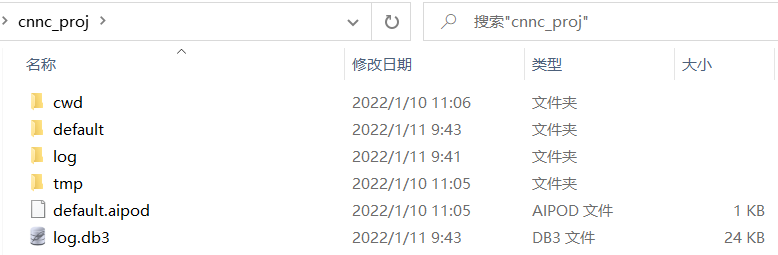
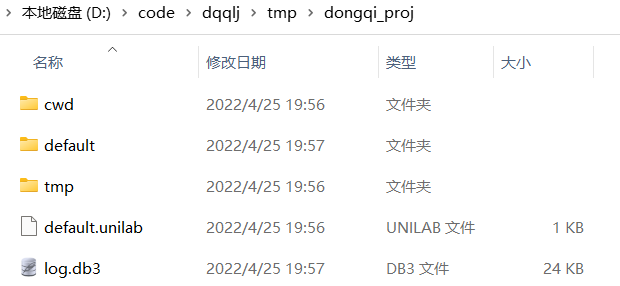
增加循环节点并修改部分旧的字段

diff --git a/docs/二次开发教程.md b/docs/二次开发教程.md
@@ -4,18 +4,19 @@
 
 ## 领域术语释义
 
-| 序号 | 专有名词 |中文释义|  领域释义 | 备注 |
-| ------------ | ------------- | ------------ | ------------ | ------------ |
-| 1 |solution|工程|层级最高的文件结构|2.1版本仅允许创建一个工程 |
-| 2 |process|流程|计算的线性过程|一个工程可创建多个流程|
-| 3 |model|模型|可执行的计算单元组|model有执行引擎的概念|
-| 4 |node|节点|特定功能的计算单元|特定功能的计算单元 |
-| 5 |simulation task|评估任务|自动化的计算流程|AIPOD任务类型之一|
-| 6 |var|变量|计算结果储存的抽象概念|
-| 7 |CWD|当前工作目录|aipod任务执行的路径|
-| 8 |Line|连线|节点之间数据传递管理|
-| 9 |unicall|任务调用管理|任务定义执行器构造|UniLab的后端|
-| 10 |gfunc|全局函数|任务数据引擎的缓存和构造|unicall的后端|
+| 序号  | 专有名词 | 中文释义 |  领域释义 | 备注             |
+|-----| ------------- |--| ------------ |----------------|
+| 1   |solution| 工程 |层级最高的文件结构| 2.1版本仅允许创建一个工程 |
+| 2   |process| 流程 |计算的线性过程| 一个工程可创建多个流程    |
+| 3   |model| 模型 |可执行的计算单元组| model有执行引擎的概念  |
+| 4   |node| 节点 |特定功能的计算单元| 特定功能的计算单元      |
+| 5   |simulation task| 评估任务 |自动化的计算流程| unicall任务类型之一  |
+| 6   |var| 变量 |计算结果储存的抽象概念|
+| 7   |CWD| 当前工作目录 |unicall任务执行的路径|
+| 8   |Line| 连线 |节点之间数据传递管理|
+| 9   |unicall| 任务调用管理 |任务定义执行器构造| UniLab的后端      |
+| 10  |gfunc| 全局函数 |任务数据引擎的缓存和构造| unicall的后端     |
+| 11  |UniLab| 仓库平台总称 |集成unicall和gfunc| |
 
 ## 开发流程图
 ![二次开发流程图.png](img/二次开发流程图.png)
@@ -30,7 +31,7 @@
             ...
         tmp/
             ...
-        default.aipod    # 项目配置文件
+        default.unilab    # 项目配置文件
         log.db3          # 日志数据库
 
 ## 工程文件截图
@@ -39,17 +40,17 @@
 ## 内部接口函数明细
 
 ### 工程侧常用方法
-| 序号| 对象名 | 作用 | 所属模块 |
-| ------------ | ------------- | ------------ |------------ |
-| 1 | Solution  | 流程操作对象 |aipod |
-| 2 | create_default_solution | 创建aipod工程函数 |aipod |
-| 3 | open_aipod_project  | 打开aipod工程函数 |aipod |
+| 序号| 对象名                     | 作用           | 所属模块    |
+| ------------ |-------------------------|--------------|---------|
+| 1 | Solution                | 流程操作对象       | unicall |
+| 2 | create_default_solution | 创建unilab工程函数 | unicall   |
+| 3 | open_uniab_project      | 打开unilab工程函数  | unicall   |
 
 
     """创建工程的示例代码(仅包含工程创建和函数节点，此时尚不可打包为流程文件夹)"""
 
-    # 1. 导入aipod内置的方法
-    from aipod import Solution, create_default_solution, open_aipod_project
+    # 1. 从Unilab导入solution相关的内置方法
+    from unilab.persistence import Solution, create_default_solution
 
     # 2. 创建并获取工程对象solution
     solution = create_default_solution(path, title="", port=60007).default
@@ -70,38 +71,38 @@
     func_node.add_dynamic_file(name="data.zip", rel_path='data.zip')
 
 ### 流程侧常用方法
-| 序号| 对象名 | 作用 | 上层对象 | 备注 |
-| ------------ | ------------- | ------------ |------------ |------------ |
-| 1 | add_graph_model | 流程操作对象 |aipod |-------- |
-| 2 | add_func_node | 创建aipod工程函数 |aipod |-------- |
-| 3 | add_exe_node | 打开aipod工程函数 |aipod |-------- |
-| 4 | add_process_group | 获取流程组信息 |get_calcmodel_cli |-------- |
-| 5 | add_subprocess | 获取子流程 |add_process_group |-------- |
-| 6 | add_dynamic_file | 添加动态文件 |add_graph_model |-------- |
-| 7 | add_input_variable | 添加输入变量 |model/node| 全局/节点均支持 |
-| 8 | add_output_variable | 添加输出变量 |model/node| 全局/节点均支持 |
-| 9 | add_loop_node | 添加循环节点 |model |-------- |
-| 10 | add_local_input_variable | 添加节点输入变量 |model |-------- |
-| 11 | add_condition_node | 添加判定节点 |model |-------- |
-| 12 | add_autoinc_node | 循环自增节点 |model |-------- |
-| 13 | add_or_node | 增加并行判断节点 |model |-------- |
-| 14 | upload | 附件的上传函数 |add_attachment |-------- |
-| 15 | add_attachment | exe节点增加附件 |add_exe_node |-------- |
-| 16 | update_post_out_trigger | exe节点触发器 |add_exe_node |-------- |
-| 17 | add_in_line | 流程输入连线 |model |add_subprocess/add_graph_model等均可 |
-| 18 | add_line | 流程普通连线 |model |add_subprocess/add_graph_model |
-| 19 | add_out_line | 流程输出连线 |model |add_subprocess/add_graph_model |
+| 序号| 对象名 | 作用 | 上层对象              | 备注 |
+| ------------ |:--------------| ------------ |-------------------|------------ |
+| 1 | add_graph_model | 流程操作对象 | unicall|-------- |
+| 2 | add_func_node | 创建aipod工程函数 | aipod             |-------- |
+| 3 | add_exe_node | 打开aipod工程函数 | aipod             |-------- |
+| 4 | add_process_group | 获取流程组信息 | get_calcmodel_cli |-------- |
+| 5 | add_subprocess | 获取子流程 | add_process_group |-------- |
+| 6 | add_dynamic_file | 添加动态文件 | add_graph_model   |-------- |
+| 7 | add_input_variable | 添加输入变量 | model/node        | 全局/节点均支持 |
+| 8 | add_output_variable | 添加输出变量 | model/node        | 全局/节点均支持 |
+| 9 | add_loop_node | 添加循环节点 | model             |-------- |
+| 10 | add_local_input_variable | 添加节点输入变量 | model             |-------- |
+| 11 | add_condition_node | 添加判定节点 | model             |-------- |
+| 12 | add_autoinc_node | 循环自增节点 | model             |-------- |
+| 13 | add_or_node | 增加并行判断节点 | model             |-------- |
+| 14 | upload | 附件的上传函数 | add_attachment    |-------- |
+| 15 | add_attachment | exe节点增加附件 | add_exe_node      |-------- |
+| 16 | update_post_out_trigger | exe节点触发器 | add_exe_node      |-------- |
+| 17 | add_in_line | 流程输入连线 | model             |add_subprocess/add_graph_model等均可 |
+| 18 | add_line | 流程普通连线 | model             |add_subprocess/add_graph_model |
+| 19 | add_out_line | 流程输出连线 | model             |add_subprocess/add_graph_model |
 
 ## 流程应用示例
 ### 示例一: exe+函数节点流程
 #### 流程搭建的完整代码
     import os
     from unicall import DataType
-    from aipod import create_default_solution, Solution
+    from unilab.persistence import Solution, create_default_solution
     
     
     # 示例代码1
-    def add_demo1_model(cli):  # cli是aipod的接口管理对象 包含了任务管理的上下文信息
+    def add_demo1_model(cli):  # cli是unicall的接口管理对象 包含了任务管理的上下文信息
         proc = cli.add_process_group(name="demo1", template_name="default")
         model = proc.add_subprocess(type_id=3, name="demo1").model
     
@@ -140,11 +141,8 @@
 
 #### 流程测试(使用脚本)
     import unicall
-    unicall.debug_on()  # before import aipod
-    import aipod
-    aipod.debug_on()
-    from aipod import Solution
-    from aipod.scheduler import Scheduler
+    from unilab.persistence import Solution
+    from unilab.scheduler import Scheduler
     
     
     def get_path(path):
@@ -175,11 +173,9 @@
     
     
     if __name__ == '__main__':
-        import os
-        print(os.getpid())
         import sys
         import logging
-        from aipod import logger_helper
+        from unilab.utils.log_helper import logger_helper  # 日志记录器
         logger_helper.add_stream_handler("default", stream=sys.stderr, level=logging.DEBUG)
         logger_helper.logger.info("start test")
         path = get_path("../tmp/demo")
@@ -209,7 +205,7 @@
         inputs:{'input1': 1}
         result:{'output1': 2}
 
-#### 流程用AIPOD打开后的流程图
+#### 流程用搭载前端的AIPOD优化软件打开后的流程图
 ![img.png](img/示例一AIPOD打开后的流程图.png)
 
 ### 示例二: exe节点+函数节点流程
@@ -227,7 +223,7 @@
     sys.path.append(get_path("../../"))
     
     import shutil
-    from aipod import Solution, create_default_solution, open_aipod_project
+    from unilab.persistence import Solution, create_default_solution, open_aipod_project
     
     
     def add_demo2_model(cli):
@@ -293,7 +289,7 @@
         graph.add_out_line("exe")
     
     
-    def create_aipod_sln(path, is_clear=True):
+    def create_unilab_sln(path, is_clear=True):
         if is_clear and os.path.exists(path):
             shutil.rmtree(path)
         sln = create_default_solution(path,
@@ -305,10 +301,10 @@
         create_cu_ansys(cli)
     
     def update_worker_num(path):
-        proj_cli = open_aipod_project(os.path.join(path, "default")).get_db_cli()
+        proj_cli = open_unilab_project(os.path.join(path, "default")).get_db_cli()
         proj_cli.update_surrogate("cnnc_calc_ansys",
                                   exec_type_id=1,
-                                  worker_num=10,
+                                  worker_num=10,  # 工作线程更新为10
                                   task_timeout=36000,
                                   password=None)
         proj_cli.update_surrogate("cnnc_calc_pipestress",
@@ -324,16 +320,12 @@
     
     if __name__ == '__main__':
         import logging
-        from aipod import logger_helper
-        logger_helper.add_stream_handler("default", level=logging.DEBUG)
-        from optpy.persistence import logger_helper
-        logger_helper.add_stream_handler(level=logging.DEBUG)
-        from aipod import logger_helper
-        logger_helper.add_stream_handler("default", level=logging.DEBUG)
+        from unilab.utils.log_helper import logger_helper
+        logger_helper.add_stream_handler(name="default", level=logging.DEBUG)
     
         path = get_path("../tmp_proj_dir/cnnc_proj")
-        create_aipod_sln(path)
-        update_worker_num(path)
+        create_unilab_sln(path)
+        # update_worker_num(path)  增加并发用
         test_open(path)
 
 
@@ -505,5 +497,147 @@
 ![img.png](img/示例二AIPOD打开后的流程图.png)
 
 ### 示例三: 函数节点+循环节点+判断节点流程
+#### 流程搭建的完整代码
+    import os
+    import sys
+
+    def add_reaction_design_iterative_model(cli):
+        graph = cli.add_graph_model(name="reaction_design_iterative", description="一维反动式设计迭代的完整流程")
+            # 自加节点
+        node = graph.add_autoinc_node(name="loop1_autoinc",
+                                  inc_variable="loop1_range_times",
+                                  inc_step=1)
+        # loop1循环判断节点
+        node = graph.add_loop_condition_node(name="loop1_range_judge_node", condition="(loop1_range_times == {})".format(global_iterative_limit_var))
+        node.add_input_variable(name="loop1_range_times",
+                            datatype_id=DataType.Int,
+                            is_from_global=True)
+
+        node = graph.add_func_node(name="loop1_over_upper_limit_func_node", function="""
+        all_extraction_port_judge_result = 0
+        print("循环1(判断首级根茎范围并调整载荷系数) 超过迭代上限次数")
+        raise Exception("循环1(判断首级根茎范围并调整载荷系数) 超过迭代上限次数")
+        """)
+        node.add_output_variable(name="all_extraction_port_judge_result", datatype_id=DataType.Int, is_to_global=True)
+        
+        # 1.1 输入文件生成
+        node = graph.add_func_node(name="reaction_design_generate_inputfile", description="生成输入文件", is_private_cwd=False,
+                                   function="""
+        import io
+        from dq import unit
+        
+        Reaction_design_input_parameter = unit.json_parse(Reaction_design_input_parameter)
+        
+        path = {{__cwd__}} + "/input.txt"
+        test = unit.RecDesignGetInFile(path, Reaction_design_input_parameter)
+        test.run()
+        input_file_content = test.file_content.getvalue()
+        # print(input_file_content)
+        import time
+        time_start = time.time()
+        """, layout={"x": 300, "y": 300})
+            node.add_input_variable(name="Reaction_design_input_parameter", datatype_id=DataType.String, value="", is_from_global=True)
+            node.add_output_file(name='input.txt',
+                                 description="反动式设计程序输入文件",
+                                 rel_path="input.txt",
+                                 format_type=FileFormatType.Text)
+            node.add_output_variable(name="input_file_content", datatype_id=DataType.String, is_to_global=True)
+            node.add_output_variable(name="time_start", datatype_id=DataType.Float, is_to_global=True)
+        
+            # 1.2 反动式一维设计程序执行
+            node = graph.add_exe_node(name="reaction_design", is_private_cwd=False, description="反动式一维设计程序",
+                                      timeout=-1, is_local=False, shell=False,
+                                      check_returncode=True, env=None,
+                                      type_name=None,
+                                      command="{{__cwd__}}/reaction_design_program.exe") # 真实程序：reaction_design_program.exe 模拟程序：ReactionaryDesign.exe
+        
+            # 1.3 反动式一维设计输出文件解析
+            node = graph.add_func_node(name="reaction_design_outputfile_analysis", description="输出文件解析", is_private_cwd=False,
+                                       function='''
+        import re
+        import json
+        import time
+        from dq import unit
+        time_end = time.time()
+        print('反动式程序1执行耗时:',time_end-time_start)
+        
+        file_path = {{__cwd__}} + '/output.txt'
+        out = unit.GetOutParaFromReacDesign_OUT(file_path)
+        out.run()
+        with open(file_path, "r", encoding="ansi") as tmp:
+            OUT =  tmp.read()
+        
+        file_path = {{__cwd__}} + '/LOSS.txt'
+        loss = unit.GetOutParaFromReacDesign_LOSS(file_path)
+        loss.run()
+        with open(file_path, "r", encoding="ansi") as tmp:
+            LOSS =  tmp.read()
+        out.output.update(loss.output)
+        parameters = json.dumps(out.output)
+        load_factor = ''
+        ''', layout={"x": 350, "y": 300})
+            node.add_input_variable(name="time_start", datatype_id=DataType.Float, is_from_global=True)
+            node.add_output_variable(name="parameters", datatype_id=DataType.String, is_to_global=True)
+            node.add_output_variable(name="OUT", datatype_id=DataType.String, is_to_global=True)
+            node.add_output_variable(name="LOSS", datatype_id=DataType.String, is_to_global=True)
+            node.add_output_variable(name="load_factor", datatype_id=DataType.String, is_to_global=True)
+        
+            # 2. 获取OUT变量的首级根茎
+            node = graph.add_func_node(name="the_head_rhizome_is_obtained", description="获取首级根茎节点", is_private_cwd=False,
+                                       function="""
+        from dq import unit
+        
+        # 获取并判断首级根茎节点
+        out=OUT
+        KEY5=Target_of_D_ROTORB
+        KEY6=ROTORB_error_range
+            
+        judge_in_range, D_ROTORB_VALUE, TARGET_D_ROTORB = unit.ReactionDesignIterative({{__cwd__}}).read_output_file_func(out, KEY5, KEY6)
+        """, layout={"x": 400, "y": 300})
+            node.add_input_variable(name="OUT", datatype_id=DataType.String, is_from_global=True)
+            node.add_input_variable(name="Target_of_D_ROTORB", datatype_id=DataType.String, is_from_global=True)
+            node.add_input_variable(name="ROTORB_error_range", datatype_id=DataType.String, is_from_global=True)
+            node.add_output_variable(name="judge_in_range", description="首级根茎是否在范围内", datatype_id=DataType.Int, is_to_global=True)
+            node.add_output_variable(name="D_ROTORB_VALUE", datatype_id=DataType.Int, is_to_global=True)
+            node.add_output_variable(name="TARGET_D_ROTORB", datatype_id=DataType.Int, is_to_global=True)
+        
+            # 2.1 首级根茎范围判断节点
+            node = graph.add_loop_condition_node(name="head_rhizome_range_judgment_node", description='首级根茎范围判断节点', condition="(judge_in_range == 1)", layout={"x": 450, "y": 300})
+            node.add_input_variable(name="judge_in_range", datatype_id=DataType.Int, is_from_global=True)
+        
+            # 2.2 首级根茎不在范围内调整级段所有的载荷系数
+            node = graph.add_func_node(name="adjust_the_load_factor_node", description="调整载荷系数函数节点", is_private_cwd=False,
+                                       function="""
+        from dq import unit
+        import json
+        
+        
+        D_ROTORB_VALUE = D_ROTORB_VALUE
+        TARGET_D_ROTORB = TARGET_D_ROTORB
+        Location_of_extraction_port = Location_of_extraction_port
+        Reaction_design_input_parameter = unit.json_parse(Reaction_design_input_parameter)
+        Limit_Levels = Limit_Levels
+        output_txt_file = {{__cwd__}} + '/output.txt'
+        x1 = x1
+        
+        rename_Reaction_design_input_parameter = unit.ReactionDesignIterative({{__cwd__}}).load_coefficient_adjustment_func(D_ROTORB_VALUE, TARGET_D_ROTORB, Location_of_extraction_port, Reaction_design_input_parameter, Limit_Levels, output_txt_file, x1)
+        load_factor = rename_Reaction_design_input_parameter["a5"]
+        """, layout={"x": 500, "y": 300})
+            node.add_input_variable(name="D_ROTORB_VALUE", datatype_id=DataType.Int, is_from_global=True)  # float
+            node.add_input_variable(name="TARGET_D_ROTORB", datatype_id=DataType.Int, is_from_global=True)
+            node.add_input_variable(name="Location_of_extraction_port", datatype_id=DataType.String, is_from_global=True)
+            node.add_input_variable(name="Limit_Levels", datatype_id=DataType.String, is_from_global=True)
+            node.add_input_variable(name="Reaction_design_input_parameter", datatype_id=DataType.String, is_from_global=True)
+            node.add_input_variable(name="x1", description="1/3修改载荷配置项", datatype_id=DataType.Float, is_from_global=True)
+            node.add_output_variable(name="rename_Reaction_design_input_parameter", datatype_id=DataType.String, is_to_global=True)
+            node.add_output_variable(name="load_factor", datatype_id=DataType.String, is_to_global=True)
+        
+            # 2.3 2.2重命名节点
+            node = graph.add_func_node(name="rename_node_1", is_private_cwd=False, function="Reaction_design_input_parameter = rename_Reaction_design_input_parameter", layout={"x": 500, "y": 350})
+            node.add_input_variable(name="rename_Reaction_design_input_parameter", datatype_id=DataType.String, is_from_global=True)
+            node.add_output_variable(name="Reaction_design_input_parameter", datatype_id=DataType.String, is_to_global=True)
+        
+            # 2.3 2.2重命名节点转判断节点
+            node = graph.add_loop_condition_node(name="rename_node_judge", condition="(1 > 0)", layout={"x": 550, "y": 350})
 
 ## Q&A

diff --git a/docs/index.md b/docs/index.md
@@ -1,7 +1,7 @@
 # 文档简介
 
 * 本文档的来源 - 基于Unicall内部完备的功能函数接口.
-* 本文档的目标 - 帮助各项目的开发同事快速搭建Unicall流程并落地到项目使用中.
+* 本文档的目标 - 帮助各项目的开发同事快速搭建Unicall流程建模的工程文件夹并落地到项目使用中.
 * 本文档的使用对象 - 具有一定Python基础语法能力的软件开发同事.
 
 # 二次开发流程图
@@ -16,6 +16,6 @@
 ## 版本号
 * Unicall 2022R1
 ## 修订日期
-* 20220413
+* 20220427
 ## 修订人/审核人
 * 衡浩/杨文广
